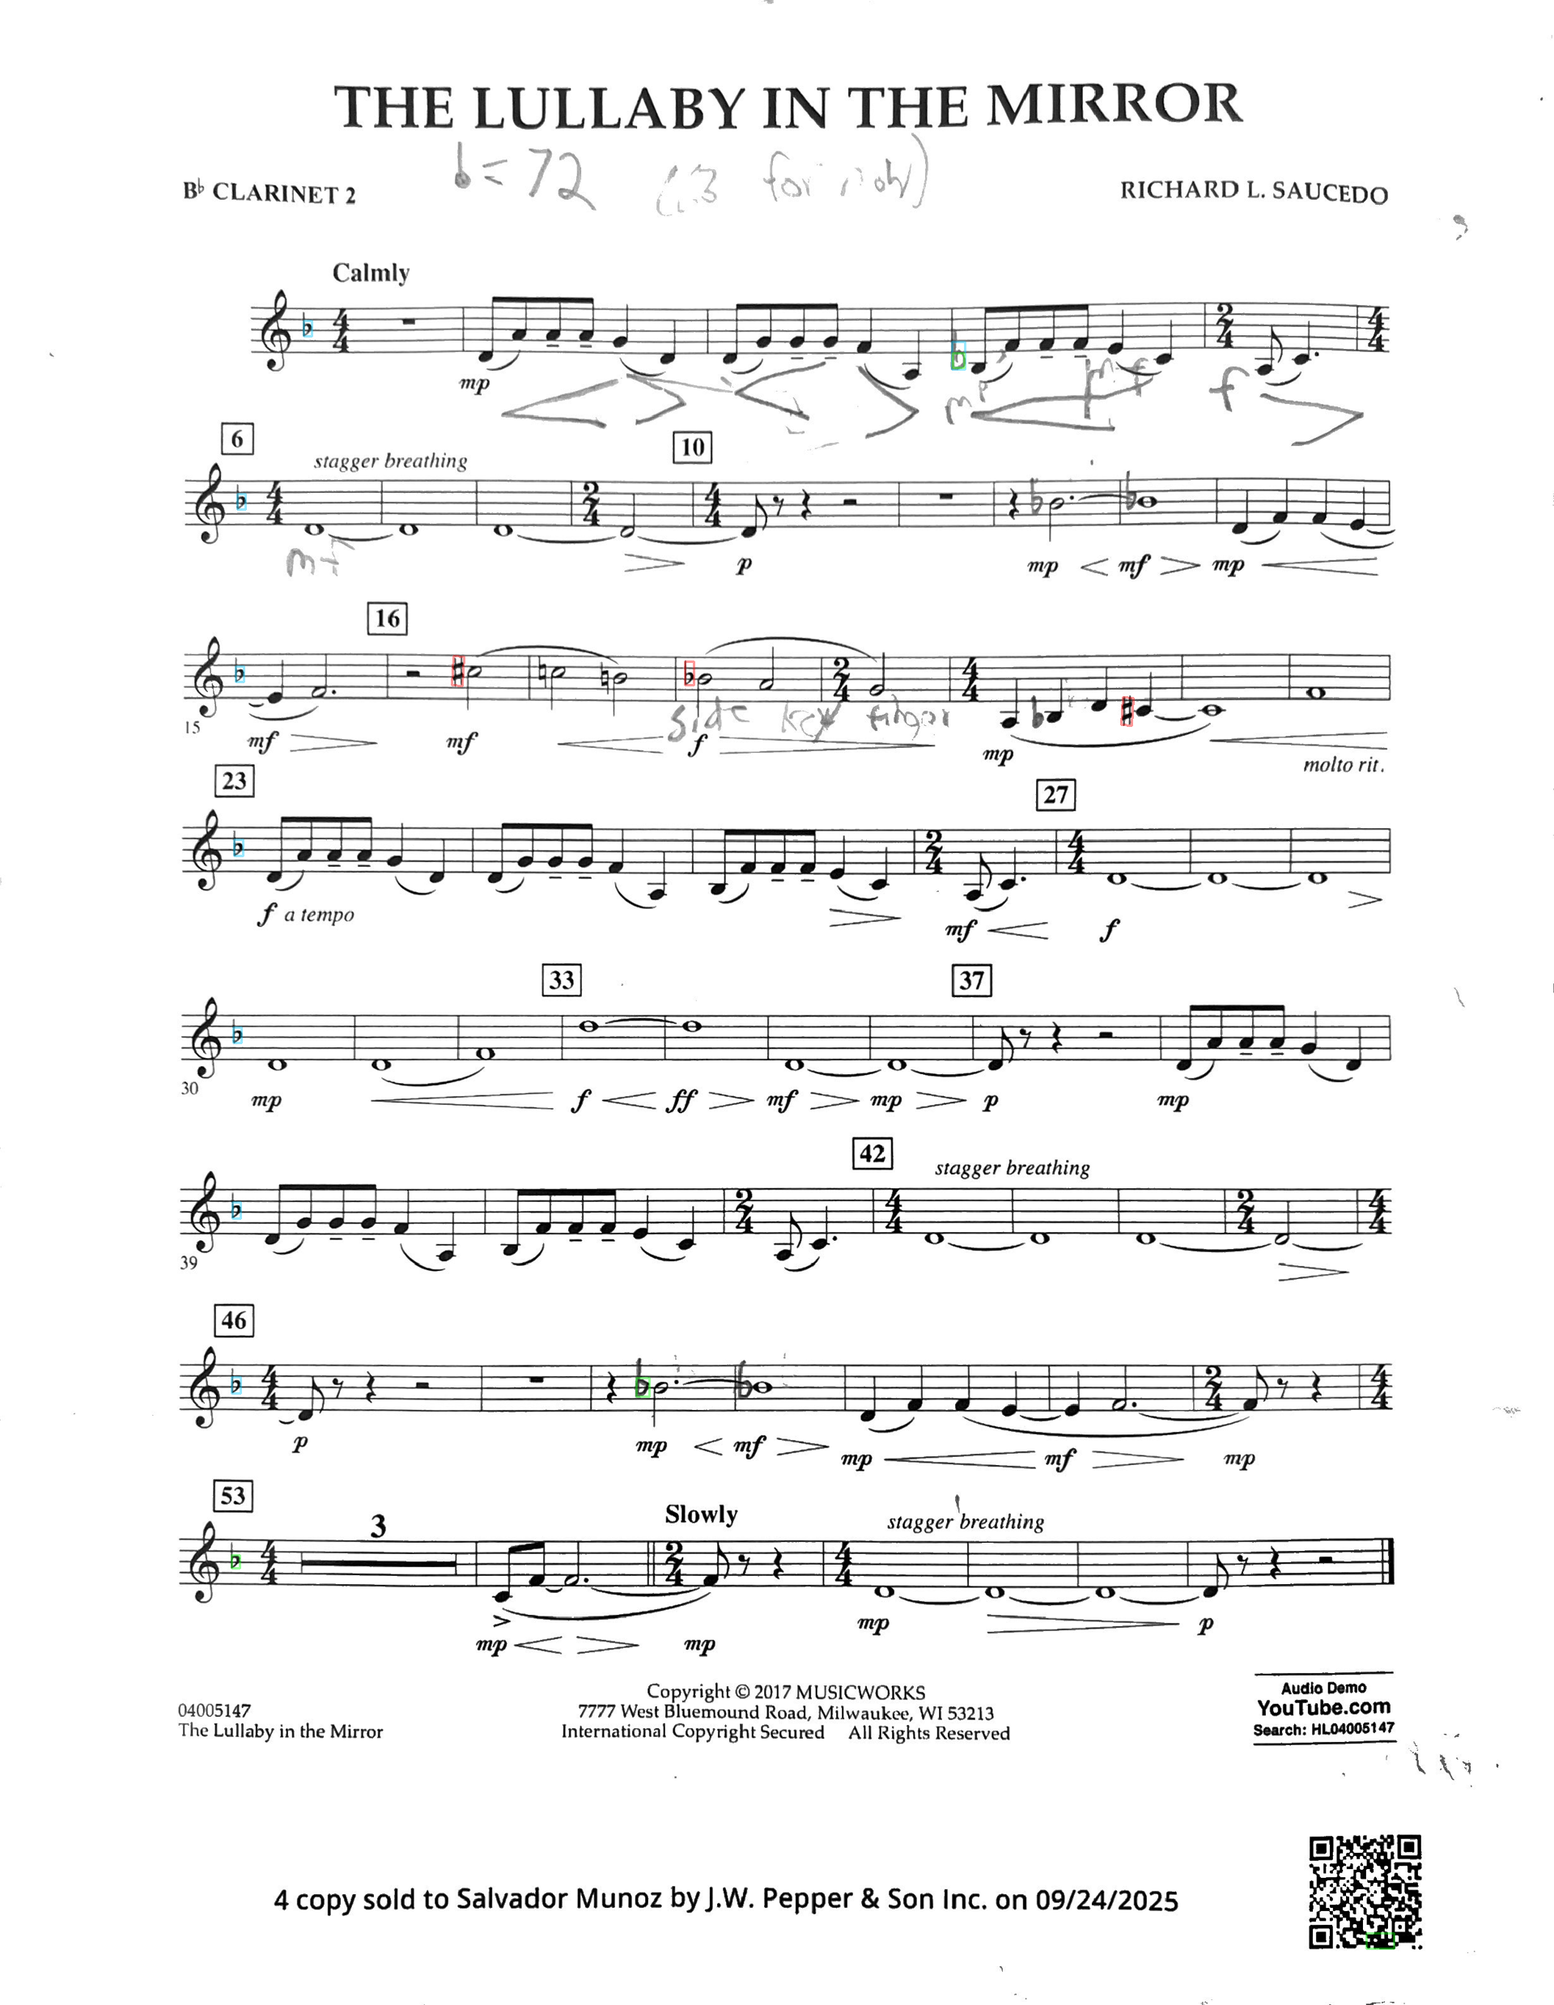
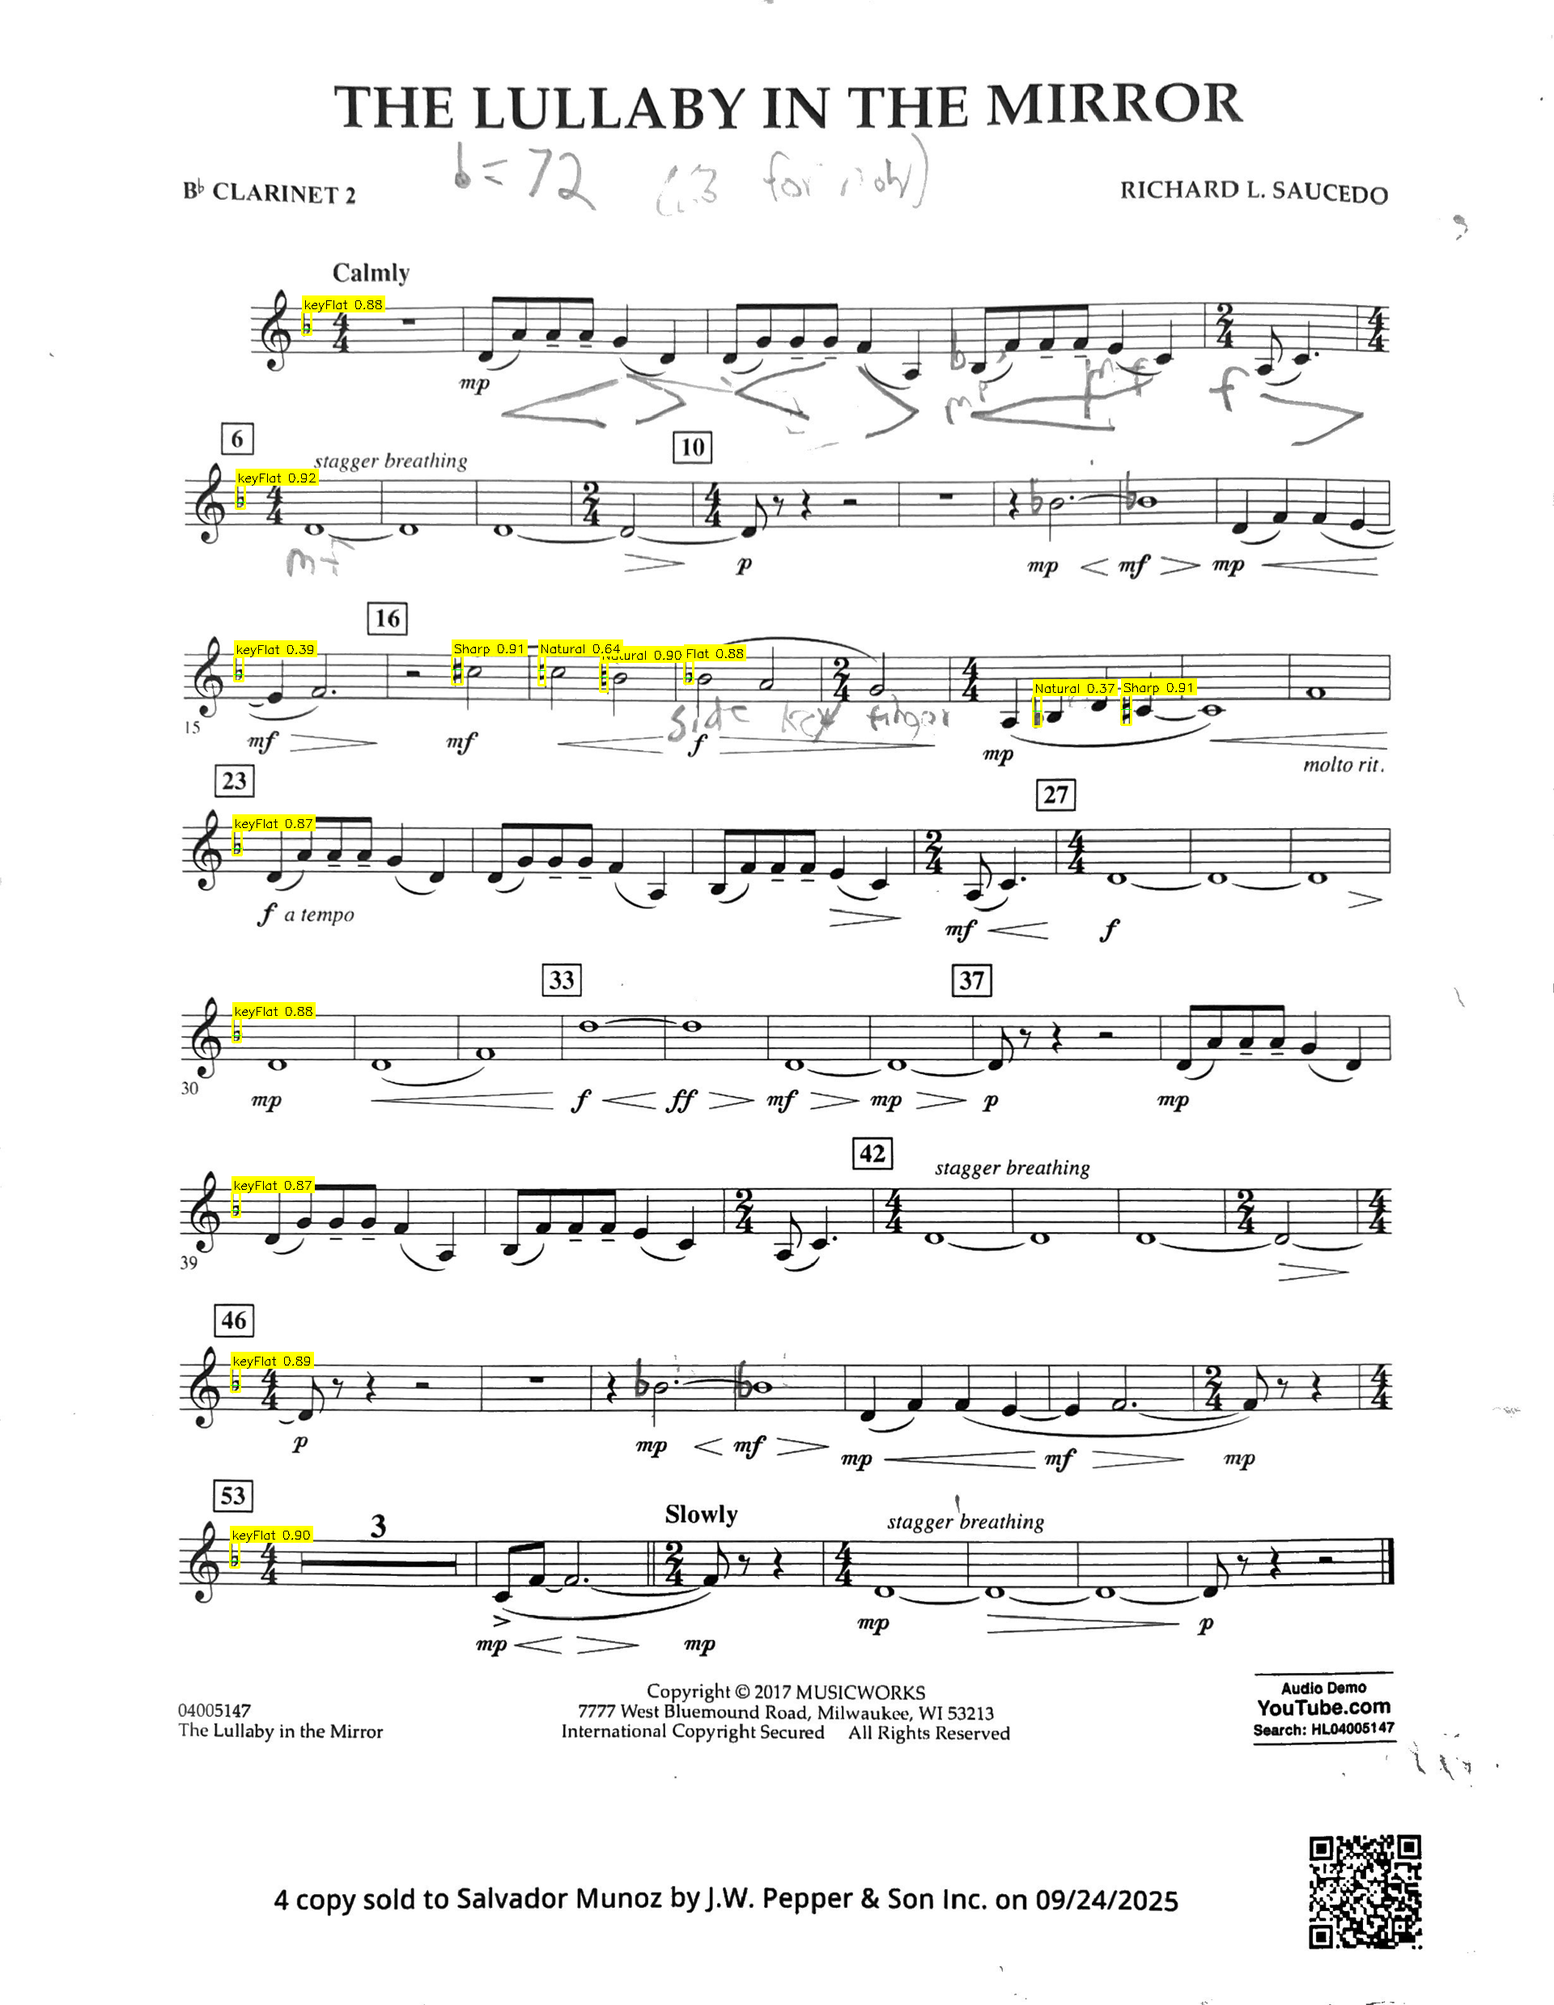
perfect!

diff --git a/homr/main.py b/homr/main.py
@@ -44,7 +44,26 @@ from homr.transformer.configs import Config, default_config
 from homr.type_definitions import NDArray
 from homr.visualization_output import VisualizationOutput
 
+# Import Orchestra-AI-2 for accidental detection
+sys.path.insert(0, os.path.join(os.path.dirname(__file__), '..', 'Orchestra-AI-2'))
+try:
+    from test_accidentals import AccidentalDetector
+    ACCIDENTAL_DETECTOR_AVAILABLE = True
+except ImportError as e:
+    ACCIDENTAL_DETECTOR_AVAILABLE = False
+    eprint("⚠ WARNING: Orchestra-AI-2 accidental detector not available")
+    eprint(f"⚠ Import error: {e}")
+    eprint("⚠ Will use geometric fallback method for accidental detection")
+
 os.environ["TF_CPP_MIN_LOG_LEVEL"] = "3"
+
+
+@dataclass
+class AccidentalDetection:
+    """Represents a detected accidental with its class name."""
+    bbox: RotatedBoundingBox
+    class_name: str
+    confidence: float
 
 
 class PredictedSymbols:
@@ -55,12 +74,14 @@ class PredictedSymbols:
         clefs_keys: list[RotatedBoundingBox],
         stems_rest: list[RotatedBoundingBox],
         bar_lines: list[RotatedBoundingBox],
+        accidentals: list[AccidentalDetection] | None = None,
     ) -> None:
         self.noteheads = noteheads
         self.staff_fragments = staff_fragments
         self.clefs_keys = clefs_keys
         self.stems_rest = stems_rest
         self.bar_lines = bar_lines
+        self.accidentals = accidentals or []
 
 
 class InvalidProgramArgumentException(Exception):
@@ -165,44 +186,137 @@ def predict_symbols(debug: Debug, predictions: InputPredictions) -> PredictedSym
         predictions.staff, skip_merging=True, min_size=(5, 1), max_size=(10000, 100)
     )
 
-    eprint("Creating bounds for accidentals (sharps, flats, naturals)")
-    # Detect all symbols first
-    all_symbols = create_rotated_bounding_boxes(
-        predictions.clefs_keys, min_size=(10, 15), max_size=(1000, 1000), skip_merging=True
-    )
+    # Use Orchestra-AI-2 for accidental detection
+    accidental_detections = []
+    clefs_keys = []  # Will store bounding boxes for compatibility
+    use_orchestra_ai = ACCIDENTAL_DETECTOR_AVAILABLE
 
-    # Separate accidentals from clefs based on size
-    # Accidentals are typically 15-35 pixels tall, clefs are 40+ pixels tall
-    accidentals_only = []
-    clefs_only = []
-    for symbol in all_symbols:
-        # Get symbol height
-        height = symbol.size[1]
-        if height < 38:
-            accidentals_only.append(symbol)
-        else:
-            clefs_only.append(symbol)
+    if use_orchestra_ai:
+        eprint("Using Orchestra-AI-2 for accidental detection")
+        try:
+            # Initialize Orchestra-AI-2 accidental detector
+            model_path = os.path.join(os.path.dirname(__file__), '..', 'Orchestra-AI-2', 'weights', 'best.pt')
+            detector = AccidentalDetector(model_path=model_path, confidence_threshold=0.3)
 
-    eprint(f"Found {len(all_symbols)} symbols: {len(accidentals_only)} accidentals, {len(clefs_only)} clefs")
+            # Convert preprocessed image to RGB for detection
+            img_rgb = cv2.cvtColor(predictions.preprocessed, cv2.COLOR_GRAY2RGB)
 
-    # Filter out accidentals that overlap >50% with clefs
-    filtered_accidentals = []
-    for accidental in accidentals_only:
-        overlaps_clef = False
-        for clef in clefs_only:
-            overlap_pct = calculate_overlap_percentage(accidental, clef)
-            if overlap_pct > 0.5:
-                overlaps_clef = True
-                break
+            # Run detection
+            detections = detector.detect_in_image(img_rgb)
+            eprint(f"Found {len(detections)} accidentals using Orchestra-AI-2")
 
-        if not overlaps_clef:
-            filtered_accidentals.append(accidental)
+            # Remove overlapping detections (>50% overlap), keeping higher confidence
+            filtered_detections = []
+            for i, det in enumerate(detections):
+                should_keep = True
+                for j, other_det in enumerate(detections):
+                    if i == j:
+                        continue
 
-    removed_overlap = len(accidentals_only) - len(filtered_accidentals)
-    eprint(f"Removed {removed_overlap} accidentals overlapping with clefs (>50%)")
-    eprint(f"Final: {len(filtered_accidentals)} accidentals")
+                    # Calculate overlap percentage
+                    x_overlap = max(0, min(det.x2, other_det.x2) - max(det.x1, other_det.x1))
+                    y_overlap = max(0, min(det.y2, other_det.y2) - max(det.y1, other_det.y1))
+                    overlap_area = x_overlap * y_overlap
 
-    clefs_keys = filtered_accidentals
+                    det_area = (det.x2 - det.x1) * (det.y2 - det.y1)
+                    if det_area == 0:
+                        continue
+
+                    overlap_pct = overlap_area / det_area
+
+                    # If overlap > 50% and this detection has lower confidence, remove it
+                    if overlap_pct > 0.5 and det.confidence < other_det.confidence:
+                        should_keep = False
+                        break
+
+                if should_keep:
+                    filtered_detections.append(det)
+
+            removed_count = len(detections) - len(filtered_detections)
+            if removed_count > 0:
+                eprint(f"Removed {removed_count} overlapping accidentals (>50% overlap, lower confidence)")
+
+            detections = filtered_detections
+            eprint(f"Final count: {len(detections)} accidentals after overlap removal")
+
+            # Convert Orchestra-AI-2 detections to our format
+            for det in detections:
+                # Create a simple bounding box from the detection
+                center = ((det.x1 + det.x2) / 2, (det.y1 + det.y2) / 2)
+                size = (det.x2 - det.x1, det.y2 - det.y1)
+
+                # Create a simple rectangular contour from the bounding box
+                x1, y1 = int(det.x1), int(det.y1)
+                x2, y2 = int(det.x2), int(det.y2)
+                contours = np.array([[x1, y1], [x2, y1], [x2, y2], [x1, y2]], dtype=np.int32)
+
+                # Create RotatedBoundingBox in OpenCV RotatedRect format: ((center_x, center_y), (width, height), angle)
+                rotated_rect = (center, size, 0.0)
+                bbox = RotatedBoundingBox(rotated_rect, contours)
+
+                accidental_detections.append(
+                    AccidentalDetection(
+                        bbox=bbox,
+                        class_name=det.class_name,
+                        confidence=det.confidence
+                    )
+                )
+                clefs_keys.append(bbox)  # For compatibility with existing code
+
+            # Count by type
+            type_counts = {}
+            for det in accidental_detections:
+                type_counts[det.class_name] = type_counts.get(det.class_name, 0) + 1
+
+            eprint("Accidental breakdown:")
+            for class_name, count in sorted(type_counts.items()):
+                eprint(f"  {class_name}: {count}")
+
+        except Exception as e:
+            eprint(f"⚠ ERROR using Orchestra-AI-2 detector: {e}")
+            eprint("⚠ FALLING BACK to geometric method")
+            use_orchestra_ai = False
+
+    # Fallback to original method if Orchestra-AI-2 is not available
+    if not use_orchestra_ai or len(accidental_detections) == 0:
+        eprint("⚠ FALLBACK: Creating bounds for accidentals (sharps, flats, naturals) - using geometric method")
+        # Detect all symbols first
+        all_symbols = create_rotated_bounding_boxes(
+            predictions.clefs_keys, min_size=(10, 15), max_size=(1000, 1000), skip_merging=True
+        )
+
+        # Separate accidentals from clefs based on size
+        # Accidentals are typically 15-35 pixels tall, clefs are 40+ pixels tall
+        accidentals_only = []
+        clefs_only = []
+        for symbol in all_symbols:
+            # Get symbol height
+            height = symbol.size[1]
+            if height < 38:
+                accidentals_only.append(symbol)
+            else:
+                clefs_only.append(symbol)
+
+        eprint(f"Found {len(all_symbols)} symbols: {len(accidentals_only)} accidentals, {len(clefs_only)} clefs")
+
+        # Filter out accidentals that overlap >50% with clefs
+        filtered_accidentals = []
+        for accidental in accidentals_only:
+            overlaps_clef = False
+            for clef in clefs_only:
+                overlap_pct = calculate_overlap_percentage(accidental, clef)
+                if overlap_pct > 0.5:
+                    overlaps_clef = True
+                    break
+
+            if not overlaps_clef:
+                filtered_accidentals.append(accidental)
+
+        removed_overlap = len(accidentals_only) - len(filtered_accidentals)
+        eprint(f"Removed {removed_overlap} accidentals overlapping with clefs (>50%)")
+        eprint(f"Final: {len(filtered_accidentals)} accidentals")
+
+        clefs_keys = filtered_accidentals
 
     eprint("Creating bounds for stems_rest")
     stems_rest = create_rotated_bounding_boxes(predictions.stems_rest)
@@ -211,7 +325,7 @@ def predict_symbols(debug: Debug, predictions: InputPredictions) -> PredictedSym
     debug.write_threshold_image("bar_line_img", bar_line_img)
     bar_lines = create_rotated_bounding_boxes(bar_line_img, skip_merging=True, min_size=(1, 5))
 
-    return PredictedSymbols(noteheads, staff_fragments, clefs_keys, stems_rest, bar_lines)
+    return PredictedSymbols(noteheads, staff_fragments, clefs_keys, stems_rest, bar_lines, accidental_detections)
 
 
 @dataclass
@@ -319,7 +433,7 @@ def detect_staffs_in_image(
 
     # Save symbols detection visualization
     if viz_output is not None:
-        viz_output.save_symbols_detection(symbols.clefs_keys)
+        viz_output.save_symbols_detection(symbols.clefs_keys, symbols.accidentals)
 
     symbols.staff_fragments = break_wide_fragments(symbols.staff_fragments)
     debug.write_bounding_boxes("staff_fragments", symbols.staff_fragments)

diff --git a/homr/visualization_output.py b/homr/visualization_output.py
@@ -143,19 +143,96 @@ class VisualizationOutput:
         else:
             return "natural"
 
-    def save_symbols_detection(self, clefs_keys: list[DebugDrawable]) -> None:
+    def save_symbols_detection(self, clefs_keys: list[DebugDrawable], accidental_detections: list = None) -> None:
         """
         Save accidentals (sharps/flats/naturals) detection visualization.
-        Color-coded: Red = sharps, Light Blue = flats, Green = naturals
+        Uses Orchestra-AI-2 style when available, or falls back to geometry.
 
         Args:
             clefs_keys: List of detected accidental bounding boxes
+            accidental_detections: Optional list of AccidentalDetection objects from Orchestra-AI-2
         """
         if self.original_image is None:
             return
 
         img = self.original_image.copy()
 
+        # If we have Orchestra-AI-2 detections, use their native drawing style
+        if accidental_detections and len(accidental_detections) > 0:
+            print("✓ Using Orchestra-AI-2 detections for visualization")
+
+            # Draw using Orchestra-AI-2 style (labels with confidence)
+            try:
+                # Draw each detection with labels and confidence scores
+                for det in accidental_detections:
+                    # Get bounding box coordinates from RotatedBoundingBox
+                    top_left = det.bbox.top_left
+                    bottom_right = det.bbox.bottom_right
+                    x1, y1 = int(top_left[0]), int(top_left[1])
+                    x2, y2 = int(bottom_right[0]), int(bottom_right[1])
+
+                    color = (0, 255, 255)  # Cyan in BGR
+                    thickness = 2
+
+                    # Draw box
+                    cv2.rectangle(img, (x1, y1), (x2, y2), color, thickness)
+
+                    # Draw green reference line based on accidental type
+                    green_color = (0, 255, 0)  # Green in BGR
+                    green_thickness = 1
+
+                    class_name = det.class_name.lower()
+                    height = y2 - y1
+
+                    # Sharp and Natural: line at middle (50%)
+                    if 'sharp' in class_name or 'natural' in class_name:
+                        line_y = int(y1 + height * 0.5)
+                        cv2.line(img, (x1, line_y), (x2, line_y), green_color, green_thickness)
+                    # Flat: line at bottom 1/4 (75% from top)
+                    elif 'flat' in class_name:
+                        line_y = int(y1 + height * 0.75)
+                        cv2.line(img, (x1, line_y), (x2, line_y), green_color, green_thickness)
+
+                    # Draw label with class name and confidence
+                    # Shorten class name for display
+                    short_name = det.class_name.replace('accidental', '').replace('key', 'key')
+                    label = f"{short_name} {det.confidence:.2f}"
+
+                    # Draw label background
+                    font = cv2.FONT_HERSHEY_SIMPLEX
+                    font_scale = 0.5
+                    font_thickness = 1
+                    (text_w, text_h), baseline = cv2.getTextSize(label, font, font_scale, font_thickness)
+
+                    # Draw filled rectangle for label background
+                    cv2.rectangle(img, (x1, y1 - text_h - 8), (x1 + text_w + 4, y1), color, -1)
+
+                    # Draw text
+                    cv2.putText(img, label, (x1 + 2, y1 - 4), font, font_scale, (0, 0, 0), font_thickness)
+
+                # Count by type
+                counts = {}
+                for det in accidental_detections:
+                    counts[det.class_name] = counts.get(det.class_name, 0) + 1
+
+                output_path = os.path.join(self.output_dir, f"{self.base_name}_accidentals.png")
+                cv2.imwrite(output_path, img)
+
+                # Format count summary
+                count_str = ", ".join([f"{count} {name}" for name, count in counts.items()])
+                print(f"✓ Saved accidentals detection: {output_path} ({len(accidental_detections)} total: {count_str})")
+
+            except Exception as e:
+                print(f"Warning: Could not use Orchestra-AI-2 drawing style: {e}")
+                print("Falling back to basic visualization")
+                self._draw_fallback_visualization(img, clefs_keys)
+        else:
+            # Fallback to geometric classification
+            print("⚠ FALLBACK: Using geometric classification for accidental visualization (Orchestra-AI-2 not available)")
+            self._draw_fallback_visualization(img, clefs_keys)
+
+    def _draw_fallback_visualization(self, img: NDArray, clefs_keys: list[DebugDrawable]) -> None:
+        """Draw fallback visualization using geometric classification."""
         # Create semi-transparent overlay for better visibility
         overlay = img.copy()
 
@@ -203,7 +280,10 @@ class VisualizationOutput:
 
         output_path = os.path.join(self.output_dir, f"{self.base_name}_accidentals.png")
         cv2.imwrite(output_path, img)
-        print(f"✓ Saved accidentals detection: {output_path} ({len(clefs_keys)} accidentals: {counts['sharp']} sharps, {counts['flat']} flats, {counts['natural']} naturals)")
+
+        # Format count summary
+        count_str = ", ".join([f"{count} {name}" for name, count in counts.items()])
+        print(f"✓ Saved accidentals detection: {output_path} ({len(clefs_keys)} total: {count_str})")
 
     def save_musicxml(self, xml_content: str) -> str:
         """
